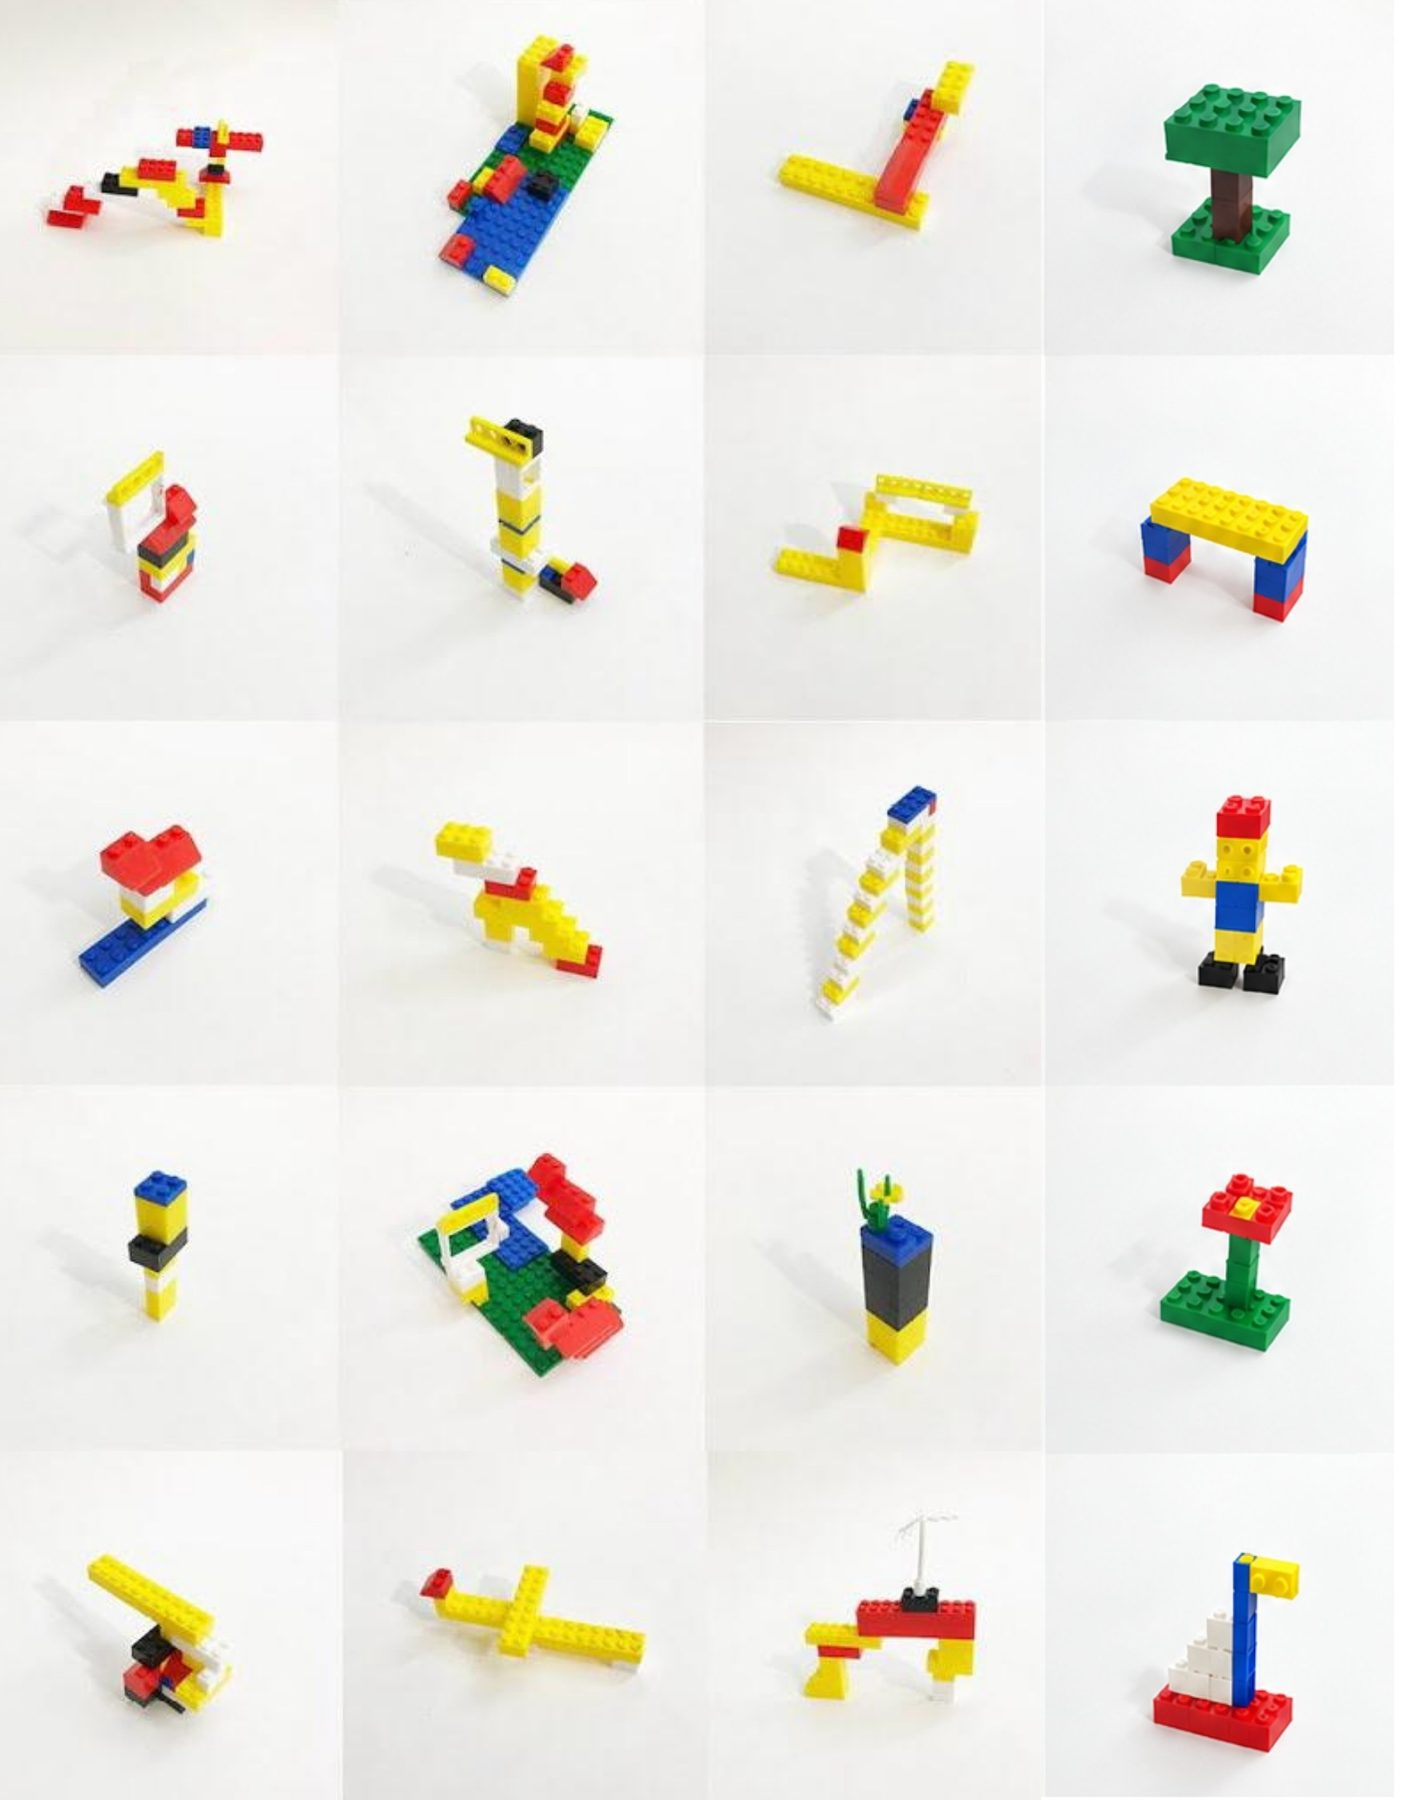
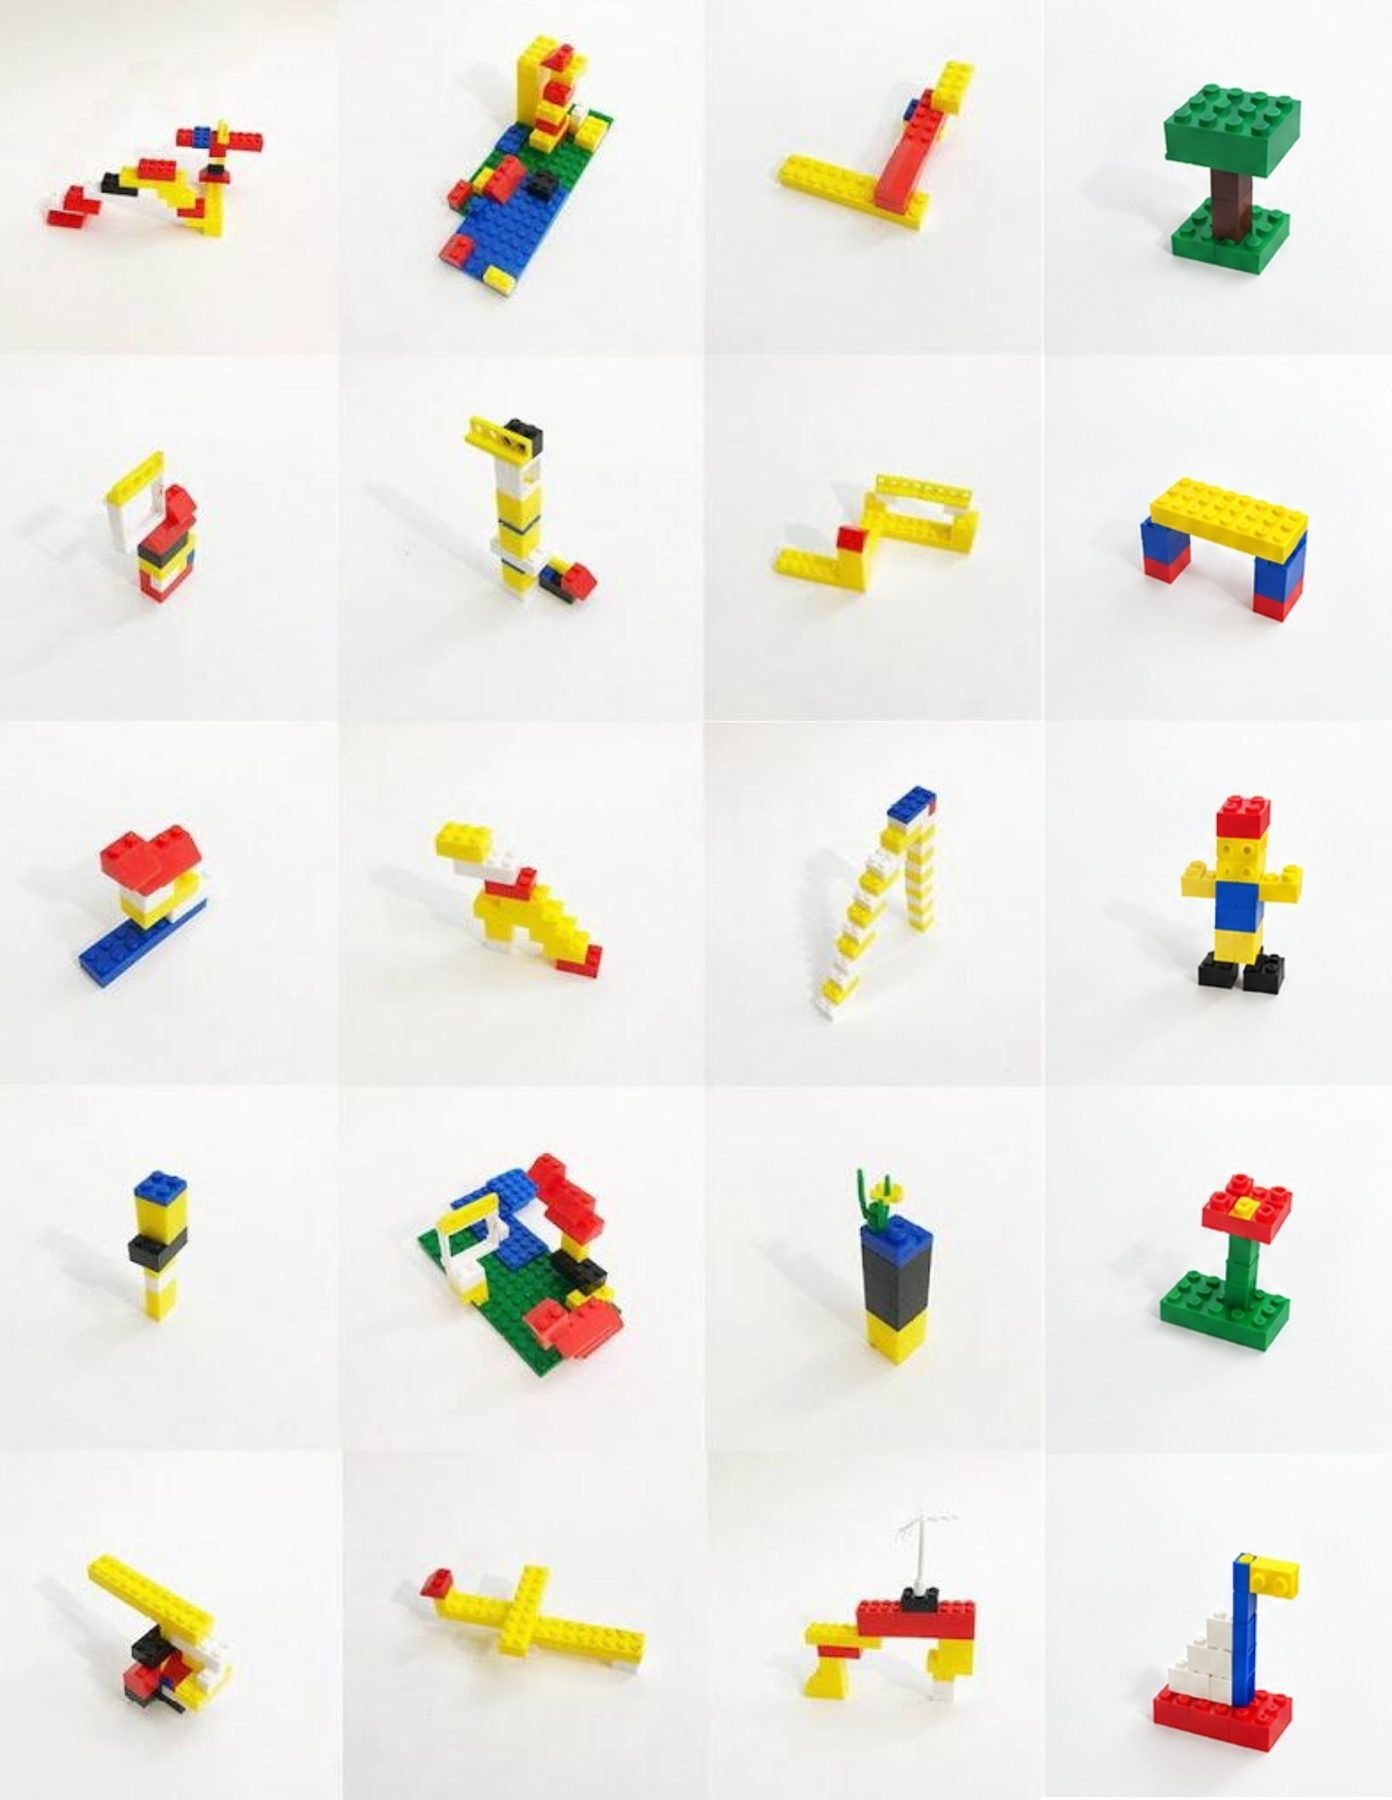
fix(living-heritage): recropped co-design lego plate (fig.11)
Claude-Session: https://claude.ai/code/session_01DqT15YNr42vTZSfnF1pZUZ

diff --git a/src/projects/3-living-heritage.md b/src/projects/3-living-heritage.md
@@ -54,7 +54,7 @@ chapters:
     side: left
     pair:
       - { src: /assets/projects/living-heritage/08.jpg, w: 1288, h: 1800, fig: fig.10, cap: "The workshop call — re-imagining Ambli, 22.09.19. For kids, aged 5 and above." }
-      - { src: /assets/projects/living-heritage/07.jpg, w: 1401, h: 1800, fig: fig.11, wide: true, cap: "Co-design — what the children built, in lego, on the sites their own drawings had identified." }
+      - { src: /assets/projects/living-heritage/07.jpg, w: 1392, h: 1800, fig: fig.11, wide: true, cap: "Co-design — what the children built, in lego, on the sites their own drawings had identified." }
 outcome:
   built: "Non-programmatic play structures carrying micro-climate functions — greenhouses, water harvesting, study areas, small farms — sited only in the pockets where more than one community's attachments overlapped."
   recognised: "CEPT University Student Excellence Award. The jury: “identified and mapped the invisible and virtual boundaries and thresholds that exist in our communities … through the resultant mesh, he identified pockets of potentiality and greater commonality.”"
